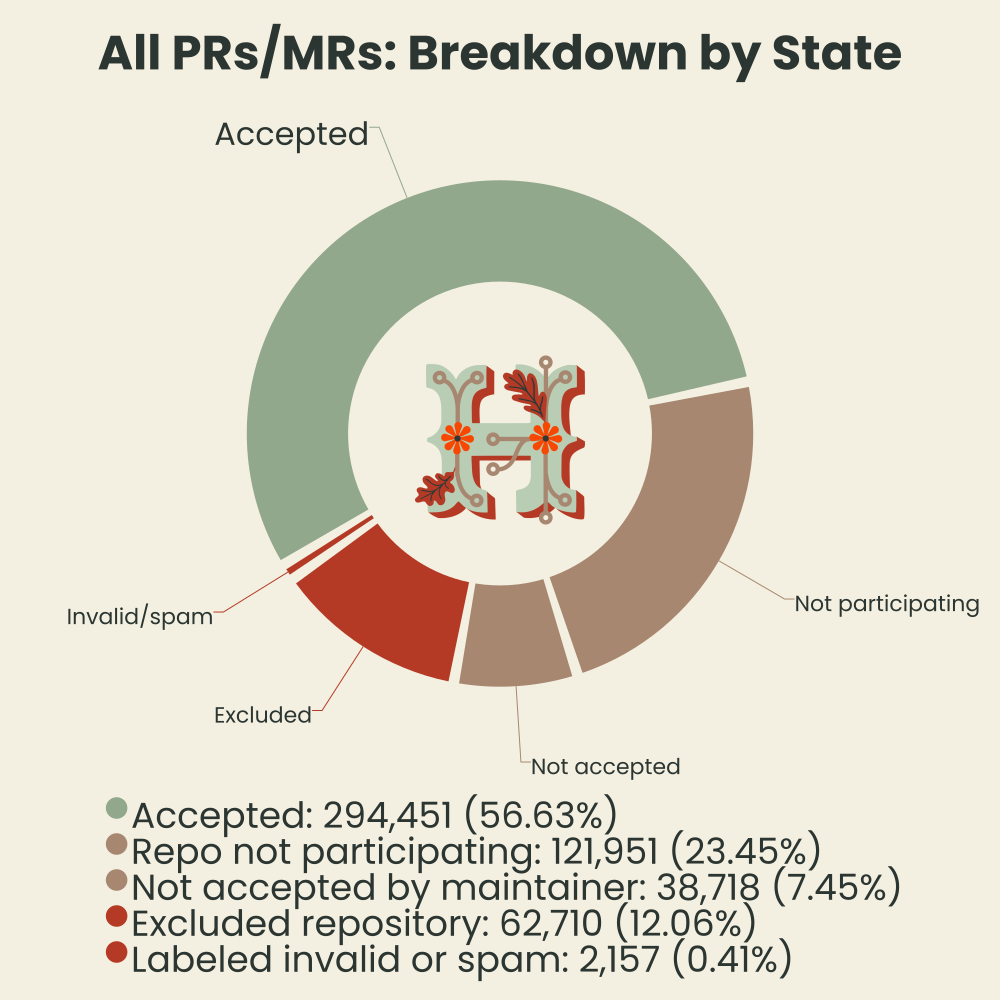
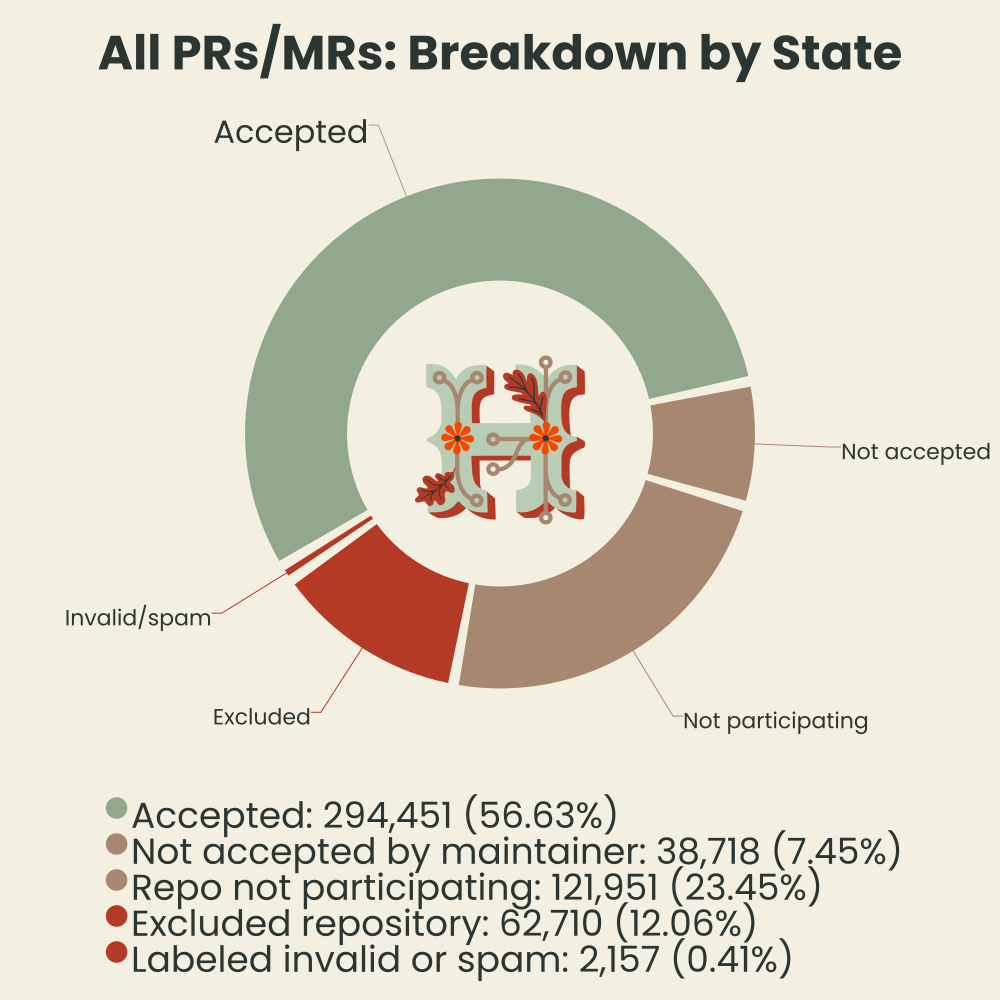
Add engaged users by provider

diff --git a/src/stats/PRs.js b/src/stats/PRs.js
@@ -27,8 +27,8 @@ module.exports = async (data, log) => {
     log(`Total PRs/MRs: ${number.commas(results.totalPRs)}`);
     log(`  Accepted PRs/MRs: ${number.commas(results.totalAcceptedPRs)} (${number.percentage(results.totalAcceptedPRs / results.totalPRs)})`);
     log(`  Unaccepted PRs/MRs: ${number.commas(totalUnacceptedPRs)} (${number.percentage(totalUnacceptedPRs / results.totalPRs)})`);
-    log(`    of which were not in a participating repo: ${number.commas(results.totalNotParticipatingPRs)} (${number.percentage(results.totalNotParticipatingPRs / totalUnacceptedPRs)})`);
     log(`    of which were not accepted by a maintainer: ${number.commas(results.totalNotAcceptedPRs)} (${number.percentage(results.totalNotAcceptedPRs / totalUnacceptedPRs)})`);
+    log(`    of which were not in a participating repo: ${number.commas(results.totalNotParticipatingPRs)} (${number.percentage(results.totalNotParticipatingPRs / totalUnacceptedPRs)})`);
     log(`  Invalid PRs/MRs: ${number.commas(totalInvalidPRs)} (${number.percentage(totalInvalidPRs / results.totalPRs)})`);
     log(`    of which were in an excluded repo: ${number.commas(results.totalExcludedPRs)} (${number.percentage(results.totalExcludedPRs / totalInvalidPRs)})`);
     log(`    of which were labeled as spam/invalid: ${number.commas(results.totalSpamPRs)} (${number.percentage(results.totalSpamPRs / totalInvalidPRs)})`);
@@ -48,15 +48,15 @@ module.exports = async (data, log) => {
                 indexLabelFontSize: 32,
             },
             {
-                y: results.totalNotParticipatingPRs,
-                indexLabel: 'Not participating',
-                legendText: `Repo not participating: ${number.commas(results.totalNotParticipatingPRs)} (${number.percentage(results.totalNotParticipatingPRs / results.totalPRs)})`,
-                color: chart.colors.highlightNeutral,
-            },
-            {
                 y: results.totalNotAcceptedPRs,
                 indexLabel: 'Not accepted',
                 legendText: `Not accepted by maintainer: ${number.commas(results.totalNotAcceptedPRs)} (${number.percentage(results.totalNotAcceptedPRs / results.totalPRs)})`,
+                color: chart.colors.highlightNeutral,
+            },
+            {
+                y: results.totalNotParticipatingPRs,
+                indexLabel: 'Not participating',
+                legendText: `Repo not participating: ${number.commas(results.totalNotParticipatingPRs)} (${number.percentage(results.totalNotParticipatingPRs / results.totalPRs)})`,
                 color: chart.colors.highlightNeutral,
             },
             {
@@ -406,12 +406,12 @@ module.exports = async (data, log) => {
                 })),
         }));
 
-    const totalPRsByStateByDayOrder = ['accepted', 'not-participating', 'not-accepted', 'excluded', 'spam'];
+    const totalPRsByStateByDayOrder = ['accepted', 'not-accepted', 'not-participating', 'excluded', 'spam'];
     const totalPRsByStateByDayColors = {
         spam: color.darken(chart.colors.highlightNegative, 20),
         excluded: chart.colors.highlightNegative,
-        'not-accepted': color.darken(chart.colors.highlightNeutral, 20),
-        'not-participating': chart.colors.highlightNeutral,
+        'not-participating': color.darken(chart.colors.highlightNeutral, 20),
+        'not-accepted': chart.colors.highlightNeutral,
         accepted: chart.colors.highlightPositive,
     };
 

diff --git a/src/stats/Users.js b/src/stats/Users.js
@@ -444,13 +444,34 @@ module.exports = async (data, log) => {
         'Users were able to link one, or both, of the supported providers to their Hacktoberfest account.',
     );
 
+    // Provider accounts engaged
+    results.totalUsersEngagedByProvider = Object.entries(data.users.providers).map(([ provider, { states } ]) => ([
+        providerMap[provider] || provider,
+        states.welcome || 0,
+    ]));
+    log('');
+    log(`Engaged (1-3 PRs/MRs) users by provider:`);
+    log('(Users were able to link one, or both, of the supported providers to their Hacktoberfest account)');
+    for (const [ provider, count ] of results.totalUsersEngagedByProvider) {
+        log(`  ${provider}: ${number.commas(count)} (${number.percentage(count / results.totalUsersEngaged)})`);
+    }
+
+    await usersTopChart(
+        results.totalUsersEngagedByProvider,
+        results.totalUsersEngaged,
+        'Engaged Users: Linked Providers',
+        'users_engaged_linked_providers_bar',
+        5000,
+        'Users were able to link one, or both, of the supported providers to their Hacktoberfest account.',
+    );
+
     // Provider accounts completed
     results.totalUsersCompletedByProvider = Object.entries(data.users.providers).map(([ provider, { states } ]) => ([
         providerMap[provider] || provider,
         states.contributor || 0,
     ]));
     log('');
-    log(`Completed users by provider:`);
+    log(`Completed (4+ PRs/MRs) users by provider:`);
     log('(Users were able to link one, or both, of the supported providers to their Hacktoberfest account)');
     for (const [ provider, count ] of results.totalUsersCompletedByProvider) {
         log(`  ${provider}: ${number.commas(count)} (${number.percentage(count / results.totalUsersCompleted)})`);

diff --git a/src/stats/readme.js b/src/stats/readme.js
@@ -10,7 +10,7 @@ module.exports = async (data, log) => {
     results.registeredUsers = data.users.states.all.count;
     results.completedUsers = data.users.states.all.states.contributor;
     results.acceptedPRs = data.pull_requests.states.all.states.accepted;
-    results.participatingRepos = data.repositories.pull_requests.accepted.count;
+    results.activeRepos = data.repositories.pull_requests.accepted.count;
     results.countriesRegistered = data.users.metadata.country.all.unique;
     results.countriesCompleted = data.users.metadata.country.states.contributor.unique;
 
@@ -26,7 +26,7 @@ module.exports = async (data, log) => {
     log(`Registered users: ${number.commas(results.registeredUsers)}`);
     log(`Completed users: ${number.commas(results.completedUsers)}`);
     log(`Accepted PRs/MRs: ${number.commas(results.acceptedPRs)}`);
-    log(`Active repositories (1+ accepted PRs/MRs): ${number.commas(results.participatingRepos)}`);
+    log(`Active repositories (1+ accepted PRs/MRs): ${number.commas(results.activeRepos)}`);
     log(`Countries represented by registered users: ${number.commas(results.countriesRegistered)}`);
     log(`Countries represented by completed users: ${number.commas(results.countriesCompleted)}`);
     log(`Day with most accepted PRs/MRs submitted: ${results.mostPRsDay} (${number.percentage(results.mostPRsDayPercentage)})`);
